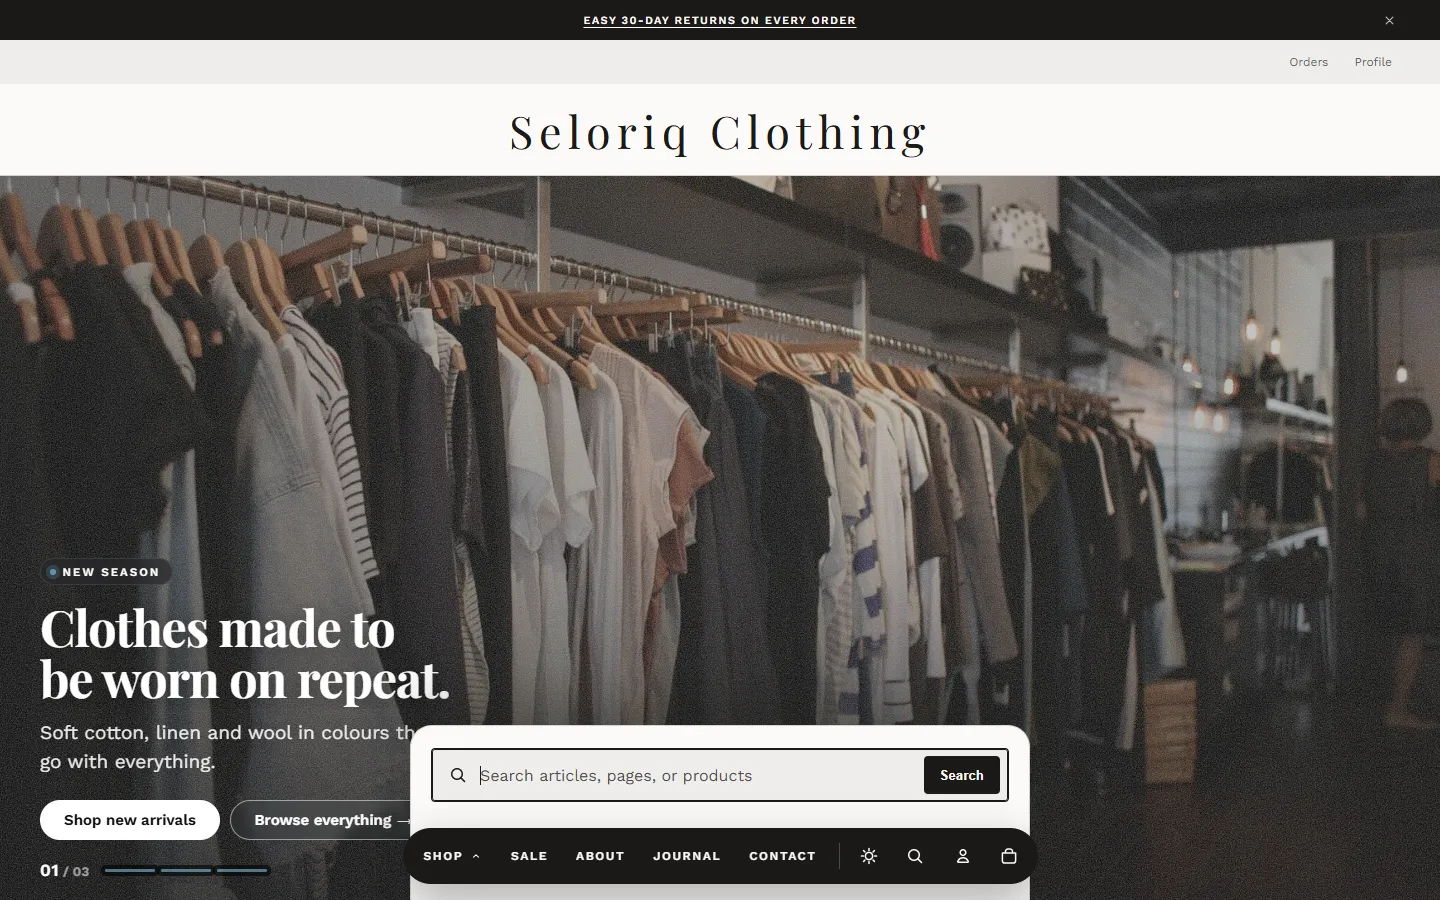
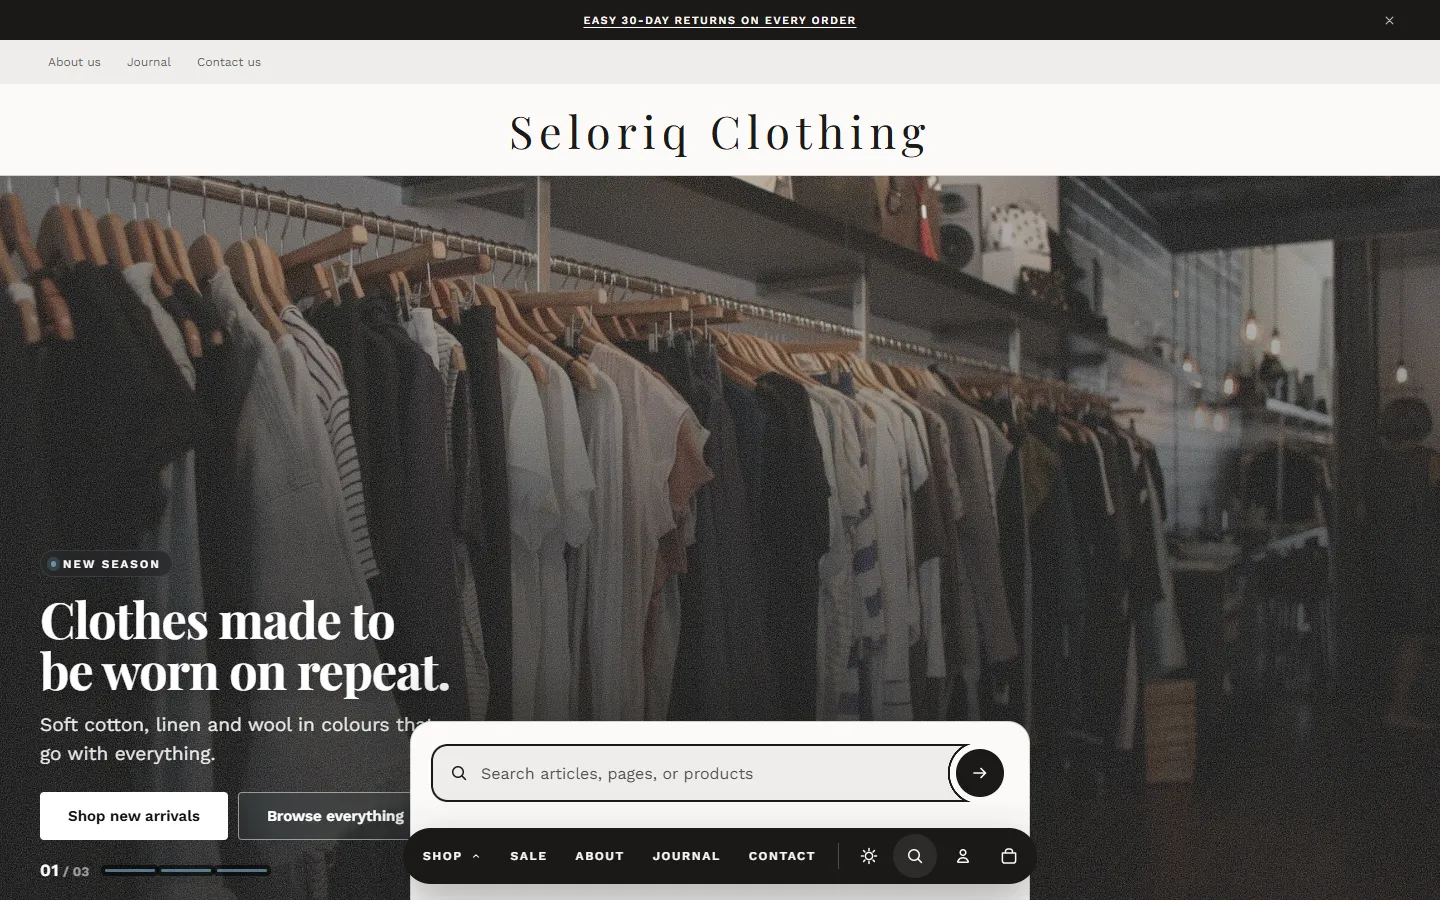
Headers: own search box per header, centred phone dock; retaken header pictures; American spelling fixes

diff --git a/headers.md b/headers.md
@@ -1,6 +1,6 @@
 ---
 title: Headers and the announcement bar
-updated: 2026-11-21
+updated: 2026-11-25
 ---
 
 # Headers and the announcement bar
@@ -96,6 +96,7 @@ Keep one header in the header area. To change style, remove this header and add 
 | Setting | What it changes |
 | --- | --- |
 | **Show search** | Shows the search icon in the bar. |
+| **Search box** | Shown while **Show search** is on. Options: **Ticket** (default: a box with cut corners and a dashed tear line before the *Search* button, like a boarding pass; on phones the line runs across the box above the button) or **Plain** (a quiet box with a *Search* button in your store's button shape). |
 {: .settings}
 
 #### Glow
@@ -183,6 +184,7 @@ A thin row of small links above the store name, for things like order tracking a
 | Setting | What it changes |
 | --- | --- |
 | **Show search** | Shows the search icon in the foot bar. Search opens as a sheet rising from the bottom, on every screen size. |
+| **Search box** | Shown while **Show search** is on. Options: **Bite** (default: the box's end is bitten out in a curve, with a round arrow button sitting in it, like the round foot bar) or **Plain** (a quiet box with a *Search* button in your store's button shape). |
 {: .settings}
 
 #### Store name
@@ -265,6 +267,7 @@ This header has no announcement bar. A full-width strip above a floating bar wor
 | Setting | What it changes |
 | --- | --- |
 | **Show search** | Adds a search icon to the bar, which opens a search card in the middle of the page. On phones, search is the first row of the menu instead. |
+| **Search card** | Shown while **Show search** is on. Options: **Folder** (default: the card grows a raised tab at its top left with the word *Search*, like a file folder) or **Plain** (the card without the tab, with a magnifier in the search line). |
 {: .settings}
 
 #### Capsule
@@ -329,6 +332,12 @@ Keep one header in the header area. To change style, remove this header and add 
 #### Search
 
 Search is always on for this style. On computers and tablets it is the magnifier beside the bag, and on phones it is the first row of the menu.
+
+| Setting | What it changes |
+| --- | --- |
+| **Search box** | Options: **Color ring** (default: a colored edge that turns slowly around the box and lights up while shoppers type, with a round arrow button) or **Plain** (a quiet box with a *Search* button in your store's button shape). The ring stays still for shoppers who turn off motion on their device. |
+| **Ring colors** | Shown while **Search box** is **Color ring**. Options: **Ocean**, **Fire**, **Gold luxe**, **Rose and plum**, **Store colors** (default: the text and accent colors of the header's color scheme), **Mint and lime**, **Ice white**. |
+{: .settings}
 
 #### Light
 
@@ -557,7 +566,7 @@ This feature has no blocks. It is the same drop-down for every header.
 
 ### Tips and limits
 
-> *One setting for every header.* You turn suggestions on or off once here. No header has a search setting of its own beyond **Show search** (Nebula float always shows its search).
+> *One setting for every header.* You turn suggestions on or off once here. Each header has its own **Show search** (Nebula float always shows its search), and Aurora glow, Centered stack and Nebula float have a **Search box** setting (Floating capsule a **Search card** setting) that picks its look.
 
 > *The arrow keys draw a frame.* A shopper who moves down the list with the arrow keys sees the chosen row inside a clear frame in the text color, in every header and on the search page, in light and dark mode. Pointing with the mouse only tints the row.
 

diff --git a/product-page.md b/product-page.md
@@ -1,6 +1,6 @@
 ---
 title: Product page
-updated: 2026-11-20
+updated: 2026-11-25
 ---
 
 # Product page
@@ -260,7 +260,7 @@ The Add to bag button, and, when your shop offers them, the express checkout but
 | **Note under the buttons** | One short line, such as a returns window or a delivery promise. Leave empty for none. |
 {: .settings}
 
-A product that can only be bought with a subscription (its plan is required) needs the subscription app's block on its product page, because that block lets the shopper pick the plan. Add it in the Product section under *Add block > Apps*. Without it, the product's own page shows a greyed "Unavailable" button and no express buttons. Anywhere else (such as the Product section on the home page, which cannot hold an app block) the button becomes a "Choose options" link to the product page. Products that can also be bought once are not affected.
+A product that can only be bought with a subscription (its plan is required) needs the subscription app's block on its product page, because that block lets the shopper pick the plan. Add it in the Product section under *Add block > Apps*. Without it, the product's own page shows a grayed "Unavailable" button and no express buttons. Anywhere else (such as the Product section on the home page, which cannot hold an app block) the button becomes a "Choose options" link to the product page. Products that can also be bought once are not affected.
 
 The block also holds the sold out button. A sold out option shows a "Sold out" button that cannot be pressed, and no express checkout buttons. To show an inquiry button instead, turn it on in Theme settings, under **Product page**, and set its wording and link under **Product cards**: see [Theme settings](theme-settings.md#product-page). It stays hidden until a link is set.
 
@@ -686,7 +686,7 @@ If the app asks you to paste code instead of giving a block, use the **Custom Li
 
 > *No Apps group?* The app is not installed, or it has no block for that page. Check the app's own help.
 
-> *Subscriptions and similar apps.* Apps that add selling plans work with the product page's option changes. Add the app's block, then check a purchase. A product whose plan is required needs the app's block on its page; without it the page shows a greyed "Unavailable" button instead of Add to bag.
+> *Subscriptions and similar apps.* Apps that add selling plans work with the product page's option changes. Add the app's block, then check a purchase. A product whose plan is required needs the app's block on its page; without it the page shows a grayed "Unavailable" button instead of Add to bag.
 
 > *No support for app code.* We cannot support code or blocks that come from an app. Contact the app's maker for help with how it looks or acts.
 

diff --git a/sections.md b/sections.md
@@ -1,6 +1,6 @@
 ---
 title: Home page sections
-updated: 2026-11-24
+updated: 2026-11-25
 ---
 
 # Home page sections
@@ -1350,7 +1350,7 @@ One panel in the row.
 
 > **Phones and tablets stack the panels.** The row of panels is for computers. On tablets and phones the panels sit one under another, and a long word in a title shrinks to fit instead of breaking in the middle.
 
-> **Narrow panels cut a long heading short.** On a computer, a heading wider than its narrow panel is cut off a little before the panel's edge, so the headings of two neighbours never touch. Keep the first word short and it still reads.
+> **Narrow panels cut a long heading short.** On a computer, a heading wider than its narrow panel is cut off a little before the panel's edge, so the headings of two neighbors never touch. Keep the first word short and it still reads.
 
 > **Tall pictures work best.** Use a picture around 900 × 1400 px, taller than it is wide.
 
